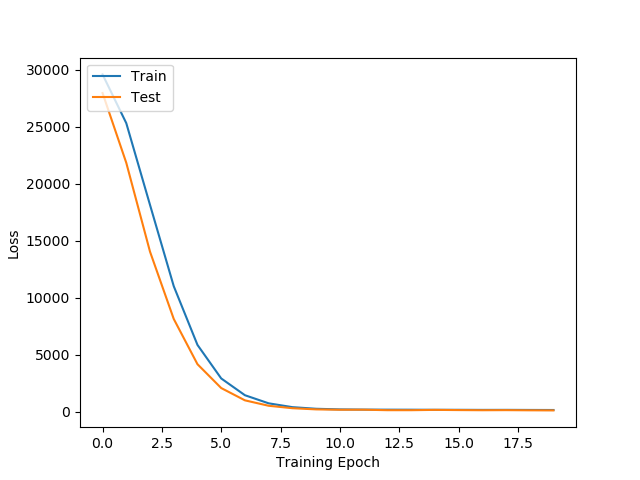
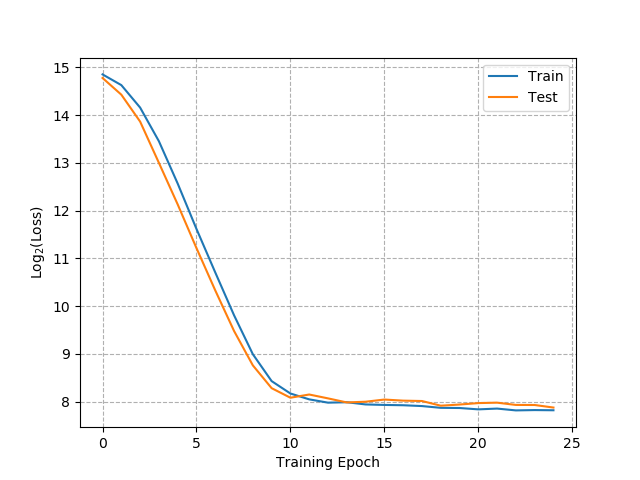
starting validation suite

diff --git a/TensorFlow/model_validate.py b/TensorFlow/model_validate.py
@@ -8,9 +8,7 @@ import matplotlib.pyplot as plt
 from model_train import build_cnn_encoder
 
 if __name__ == "__main__":
-    filepath = "train\\UnitySamples\\"
-    images = glob.glob(filepath+"*normal.png")
-    # determine image size + aloc arrays
+    images = glob.glob("train/UnitySamples/*normal.png")
     img = Image.open(images[0])
 
     encoder = build_cnn_encoder( 
@@ -27,29 +25,47 @@ if __name__ == "__main__":
     except:
         print('load weights failed')
 
-    tf.keras.utils.plot_model(encoder, to_file='encoder.png', show_shapes=True, show_layer_names=False)
+    try:
+        tf.keras.utils.plot_model(encoder, to_file='encoder.png', show_shapes=True, show_layer_names=False)
+    except:
+        pass
 
-    dude()
-    print('loading data...')
-    X0 = np.zeros( (len(images), img.size[1], img.size[0], 3), dtype=np.float16 )
-    X1 = np.zeros( (len(images), img.size[1], img.size[0], 3), dtype=np.float16 )
-    X2 = np.zeros( (len(images), img.size[1], img.size[0], 3), dtype=np.float16 )
-    X3 = np.zeros( (len(images), img.size[1], img.size[0], 3), dtype=np.float16 )
-    y = np.zeros( (len(images), img.size[1], img.size[0], 3), dtype=np.float16 )
+    X0 = np.zeros( (10, img.size[1], img.size[0], 3), dtype=np.float16 )
+    X1 = np.zeros( (10, img.size[1], img.size[0], 3), dtype=np.float16 )
+    X2 = np.zeros( (10, img.size[1], img.size[0], 3), dtype=np.float16 )
+    X3 = np.zeros( (10, img.size[1], img.size[0], 3), dtype=np.float16 )
+    y = np.zeros( (10, img.size[1], img.size[0], 3), dtype=np.float16 )
     
-    for i in range(len(images)):
-        y[i] = np.asarray(Image.open(images[i]))
-        X0[i] = np.asarray(Image.open(images[i].replace('_normal','_color0')))
-        X1[i] = np.asarray(Image.open(images[i].replace('_normal','_color1')))
-        X2[i] = np.asarray(Image.open(images[i].replace('_normal','_color2')))
-        X3[i] = np.asarray(Image.open(images[i].replace('_normal','_color3')))
+    j = 0
+    for i in np.random.choice(np.arange(len(images)),10):
+        y[j] = np.asarray(Image.open(images[i]))
+        X0[j] = np.asarray(Image.open(images[i].replace('_normal','_color1')))
+        X1[j] = np.asarray(Image.open(images[i].replace('_normal','_color2')))
+        X2[j] = np.asarray(Image.open(images[i].replace('_normal','_color3')))
+        X3[j] = np.asarray(Image.open(images[i].replace('_normal','_color4')))
+        j += 1
     
-    output = model.predict([X0,X1,X2,X3])
+    output = encoder.predict([X0,X1,X2,X3])
 
-    # TODO side by side comparison
-    f,ax = plt.subplots(1,2)
-    ax[0].imshow(output[0].astype(int))
-    ax[0].set_title("Predicted")
-    ax[1].imshow(y[0].astype(int))
-    ax[1].set_title("Ground Truth")
+    f,ax = plt.subplots(7,4,figsize=(5,7))
+    for i in range(7):
+        ax[i,0].imshow(X0[i].astype(int))
+        ax[i,1].imshow(y[i].astype(int))
+        ax[i,2].imshow(output[i].astype(int))
+        ax[i,3].imshow((y[i]-output[i]).astype(int) )
+        
+        ax[i,0].get_yaxis().set_visible(False)
+        ax[i,0].get_xaxis().set_visible(False)
+        ax[i,1].get_yaxis().set_visible(False)
+        ax[i,1].get_xaxis().set_visible(False)
+        ax[i,2].get_yaxis().set_visible(False)
+        ax[i,2].get_xaxis().set_visible(False)
+        ax[i,3].get_yaxis().set_visible(False)
+        ax[i,3].get_xaxis().set_visible(False)
+
+    ax[0,0].set_title("Input")
+    ax[0,1].set_title("Truth")
+    ax[0,2].set_title("Predction")
+    ax[0,3].set_title("Residual")
+    plt.tight_layout()
     plt.show()

diff --git a/TensorFlow/model_train.py b/TensorFlow/model_train.py
@@ -66,10 +66,10 @@ if __name__ == "__main__":
     
     for i in range(len(images)):
         y[i] = np.asarray(Image.open(images[i]))
-        X0[i] = np.asarray(Image.open(images[i].replace('_normal','_color0')))
-        X1[i] = np.asarray(Image.open(images[i].replace('_normal','_color1')))
-        X2[i] = np.asarray(Image.open(images[i].replace('_normal','_color2')))
-        X3[i] = np.asarray(Image.open(images[i].replace('_normal','_color3')))
+        X0[i] = np.asarray(Image.open(images[i].replace('_normal','_color1')))
+        X1[i] = np.asarray(Image.open(images[i].replace('_normal','_color2')))
+        X2[i] = np.asarray(Image.open(images[i].replace('_normal','_color3')))
+        X3[i] = np.asarray(Image.open(images[i].replace('_normal','_color4')))
     
     # preprocess inputs + outputs
     # subtract average? 
@@ -83,7 +83,7 @@ if __name__ == "__main__":
     history = encoder.fit(
         [X0,X1,X2,X3],
         y,
-        epochs=50, 
+        epochs=20, 
         batch_size=8,
         shuffle=True,
         validation_split=0.1,
@@ -91,12 +91,12 @@ if __name__ == "__main__":
 
     encoder.save_weights("encoder_weights.h5")
 
-    
     # Plot training & validation loss values
     f,ax = plt.subplots(1)
     ax.plot(np.log2(history.history['loss']))
     ax.plot(np.log2(history.history['val_loss']))
-    ax.set_ylabel('Loss')
+    ax.set_ylabel(r'Log$_2$(Loss)')
     ax.set_xlabel('Training Epoch')
-    ax.legend(['Train', 'Test'], loc='upper left')
+    ax.grid(True,ls='--')
+    ax.legend(['Train', 'Test'], loc='upper right')
     plt.show()

diff --git a/README.md b/README.md
@@ -56,15 +56,19 @@ OUTPUT: 1 image 480 x 320 px corresponding to a normal map
 
 The architecture of the neural network is rather simple consisting of only a few convolutional layers. The neural network doesn't have to be super complex or require many layers because the input data is so similar to the output.
 
-*image of neural network architecture 
+![](Figures/encoder.png)
 
-Training was done by optimizing for the mean squared error using Adam with a batch size of 8 images. The neural network was trained with 1500 samples for 20 epochs on a GTX 1070 (total training time ~1 hour).
+Training was done by optimizing for the mean squared error using Adam with a batch size of 8 images. The neural network was trained with 1500 samples for 20 epochs on a GTX 1070 (total training time ~30 minutes). A total of 12,035 trainable parameters. 
 
 ![](Figures/normal_training.png)
 
-*color0, truth, prediction, residual mosaic 
+![](Figures/model_validation.png)
 
-The model is built with TensorFlow 2.0
+* show unity comparison
+
+## Use Cases
+
+Create photo-realistic textures for motion pictures and video games by performing inference on images from your cell phone.
 
 ```python
 from PIL import Image
@@ -87,33 +91,25 @@ if __name__ == "__main__":
     
 ```
 
-* show unity comparison
-
-## Real World Application
-
-We are working on building a tripod light structure using a bluetooth controlled arduino and some LED strips in order to mimic our Unity simulation. A mobile app will allow you to run through the lighting sequence on your phone and capture data in the real world similar to how it was set up in Unity. This will allow one to create photo-realistic materials using their cellphone camera and an easy to build light stand. 
+An LED strip on arduino can easily simulate the training environment from Unity. Use a camera on a tripod to capture images to perform inference on.
 
 * Show picture of 2x4 and LED strip
 
-## Use Cases
-- Create photo-realistic textures for motion pictures and video games
-- Estimate a height map from geostationary satellite images by integrating the normal map. Images must be taken hours apart while the sun is at different angles. The algorithm needs to be retrained using a directional light source with the correct geometry based on your location
+Render the normal map in Unity
 
-![]() 
+* photo
 
-Image from the HiRISE instrument on the Mars Reconaissence Orbiter
+## Outstanding Research & Development
+- Improve texture rendering 
+    - higher resolution
+    - curate textures for training
+    - include height as vertex displacement
+    - simulate LED bar
 
-### License
-This software is intended strictly for educational purposes. Please cite this work if you use any of these algorithms for your project. Licensing fees may apply for any use beyond educational purposes, please contact support@digitaldream.io for more information
-
-### Outstanding Research & Development
-- Optimize CNN
+- Optimize the CNN
     - architecture
     - number of inputs
     - merge layer
 
-- improve texture rendering 
-    - higher resolution
-    - curate textures for training
-    - include height map as vertex displacement
-    - simulate LED bar
+### License
+This software is intended strictly for educational purposes. Please cite this work if you use any of these algorithms for your project. Licensing fees may apply for any use beyond educational purposes, please contact support@digitaldream.io for more information
